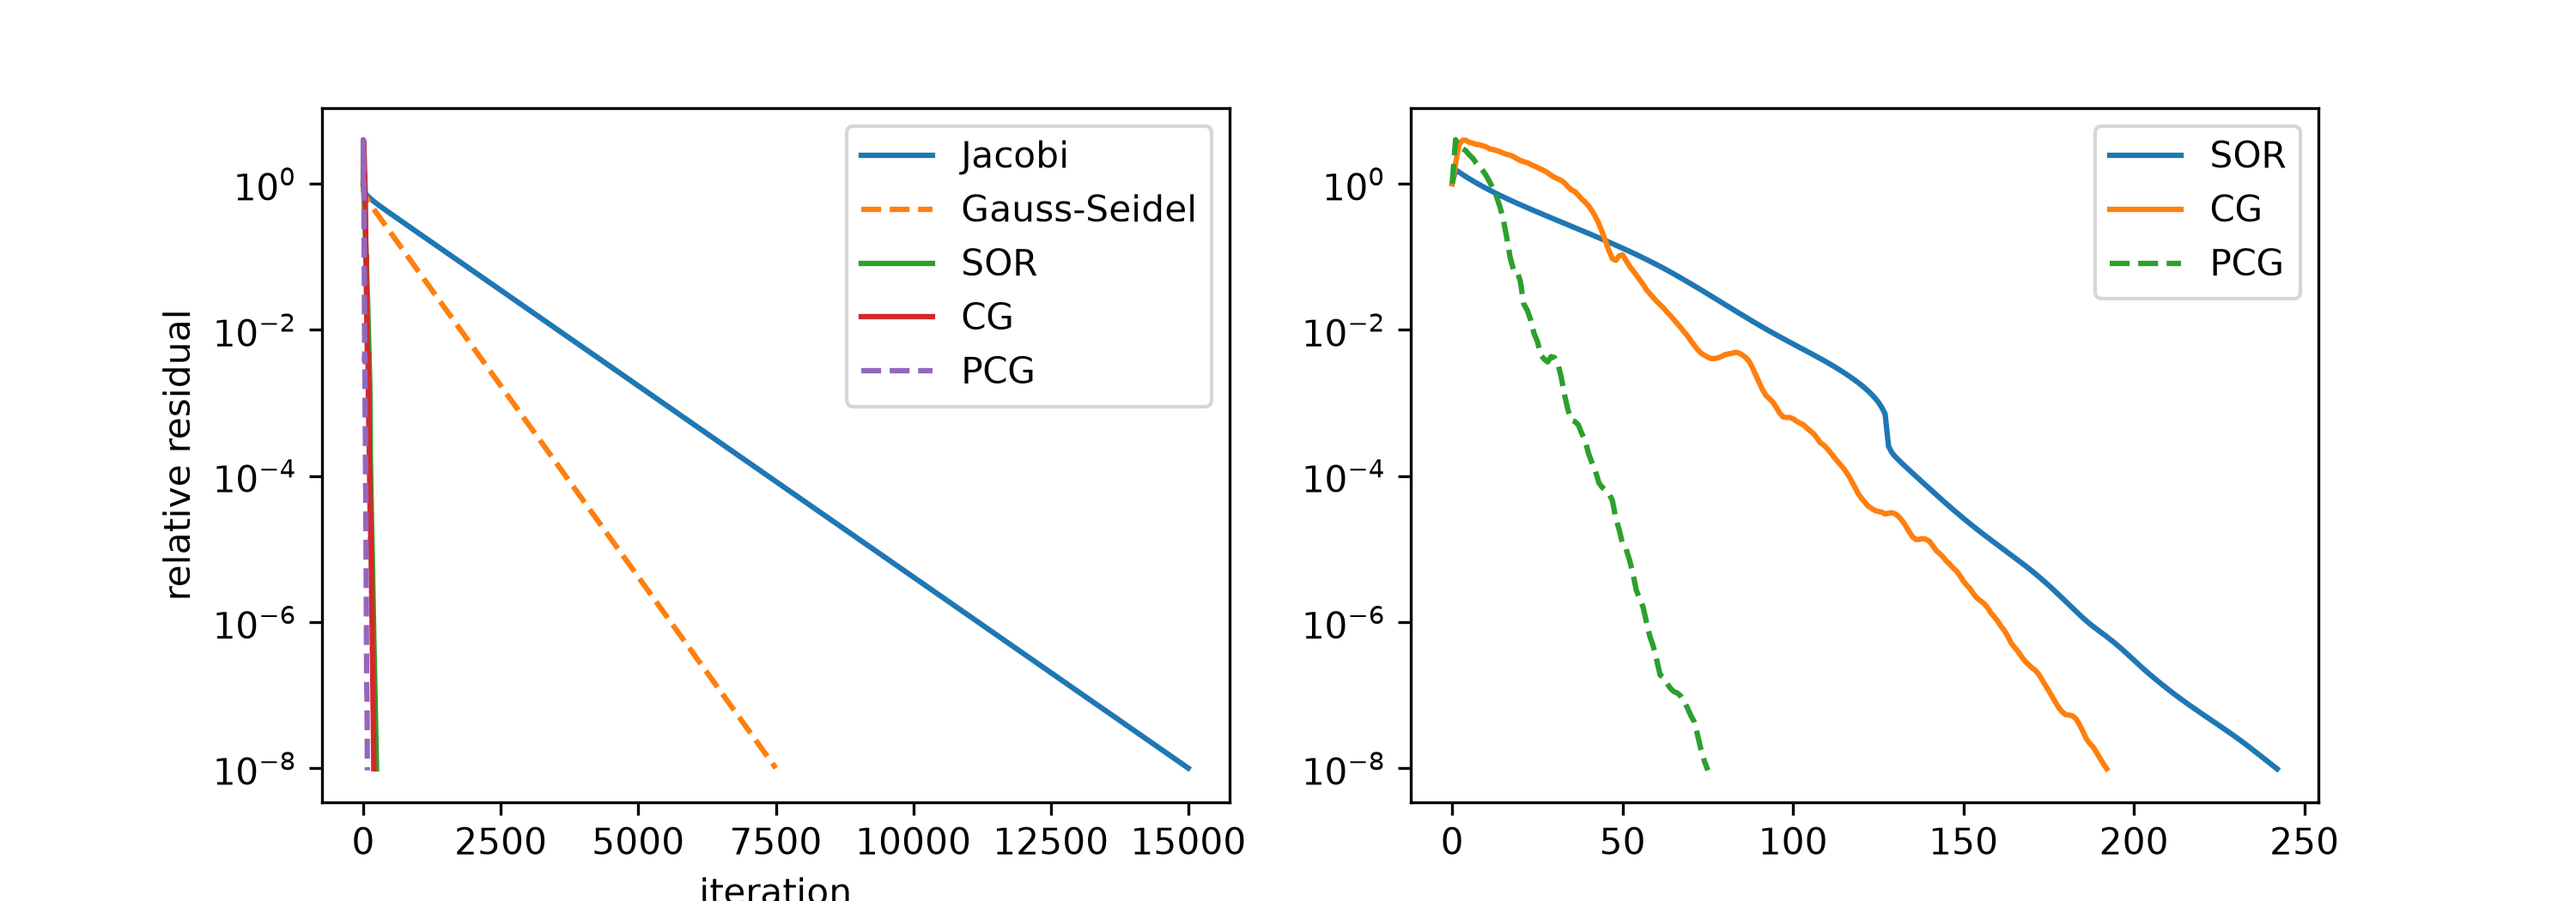
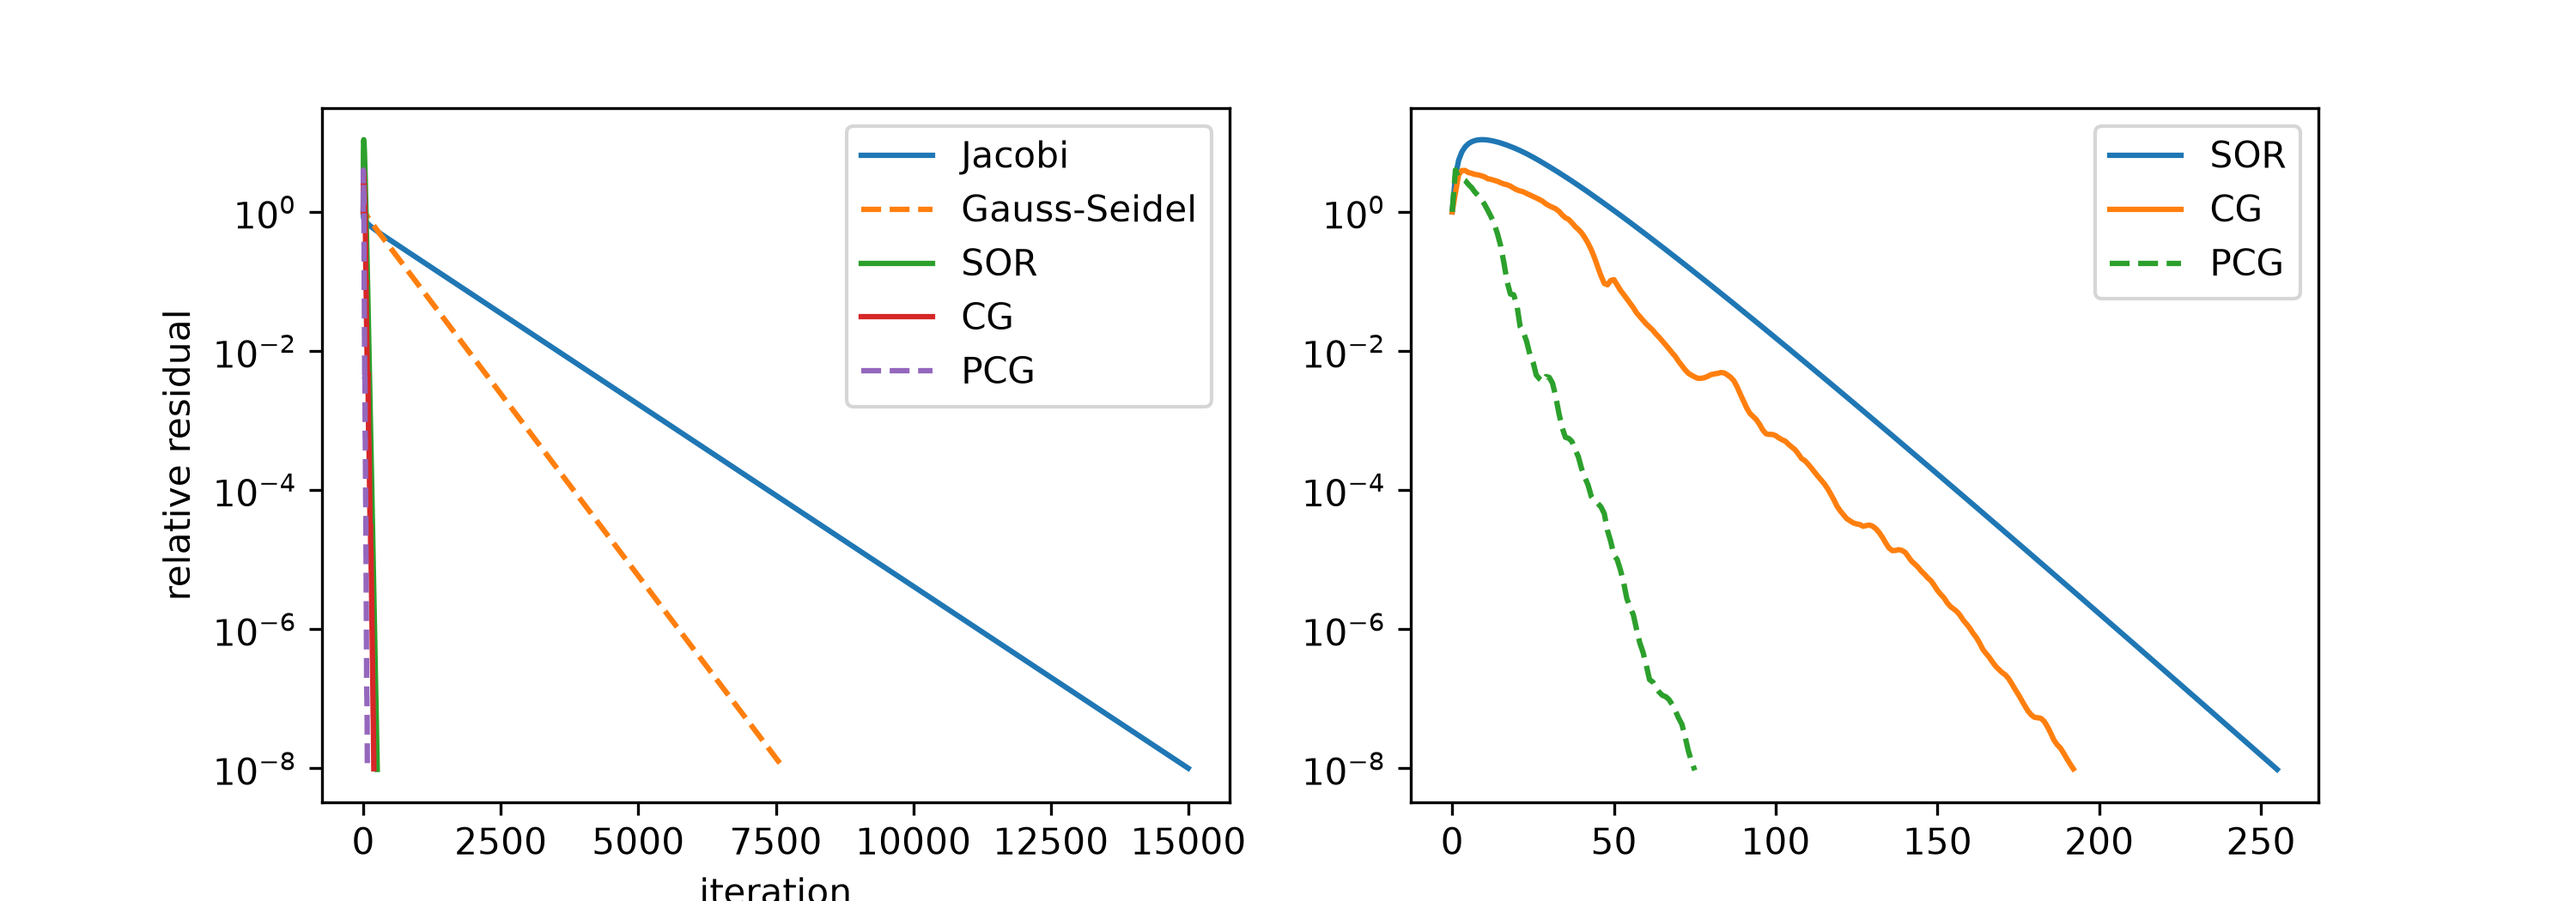
gs, sor: red-black ordering

diff --git a/methods.py b/methods.py
@@ -99,7 +99,7 @@ def jacobi(b, n, tol=1e-8, maxit=10**6):
         reshaped_u = u.reshape(n-1, n-1)
         padded_u = np.pad(reshaped_u, 1)
         return (
-            padded_u[1:-1, :-2]   #left
+            padded_u[1:-1, :-2]     #left
             + padded_u[1:-1, 2:]    #right
             + padded_u[:-2, 1:-1]   #up
             + padded_u[2:, 1:-1]    #down
@@ -124,7 +124,7 @@ def jacobi(b, n, tol=1e-8, maxit=10**6):
     return u, False, history
 
 
-def sor(b, n, w=None, tol=1e-8, maxit=10**6):
+def sor_lex(b, n, w=None, tol=1e-8, maxit=10**6):
     _check_n_size(n)
     if w is None:
         w = 2.0 / (1.0 + np.sin(np.pi/n))
@@ -155,7 +155,62 @@ def sor(b, n, w=None, tol=1e-8, maxit=10**6):
     return u[1:-1, 1:-1].reshape(-1), False, history
 
 def gs_lex(b, n, tol=1e-8, maxit=10**6):
-    return sor(b, n, w=1.0)
+    return sor_lex(b, n, w=1.0, tol=tol, maxit=maxit)
+
+def sor_rb(b, n, w=None, tol=1e-8, maxit=10**6):
+    _check_n_size(n)
+    if w is None:
+        w = 2.0 / (1.0 + np.sin(np.pi/n))
+
+    b_norm = np.linalg.norm(b)
+    if b_norm == 0:
+        return np.zeros_like(b), True, [0.0]
+    history = [1.0]
+    b = b.reshape(n-1,n-1)
+    u = np.zeros_like(b).reshape(n-1,n-1)
+    u = np.pad(u, 1)
+
+    for i in range(maxit):
+        # update red
+        u[1:-1:2, 1:-1:2] = (1-w)*u[1:-1:2, 1:-1:2] + w*0.25*(
+            b[::2, ::2]             # b is not padded
+            + u[:-2:2, 1:-1:2]      # up
+            + u[2::2, 1:-1:2]       # down
+            + u[1:-1:2, :-2:2]      # left
+            + u[1:-1:2, 2::2]       # right
+        )
+        u[2:-1:2, 2:-1:2] = (1-w)*u[2:-1:2, 2:-1:2] + w*0.25*(
+            b[1::2, 1::2]       # b is not padded
+            + u[1:-2:2, 2:-1:2]     # up
+            + u[3::2, 2:-1:2]     # down
+            + u[2:-1:2, 1:-2:2]     # left
+            + u[2:-1:2, 3::2]     # right
+        )
+        # update black
+        u[1:-1:2, 2:-1:2] = (1-w)*u[1:-1:2, 2:-1:2] + w*0.25*(
+            b[::2, 1::2]          # b is not padded
+            + u[:-2:2, 2:-1:2]      # up
+            + u[2::2, 2:-1:2]       # down
+            + u[1:-1:2, 1:-2:2]     # left
+            + u[1:-1:2, 3::2]     # right
+        )
+        u[2:-1:2, 1:-1:2] = (1-w)*u[2:-1:2, 1:-1:2] + w*0.25*(
+            b[1::2, ::2]          # b is not padded
+            + u[1:-2:2, 1:-1:2]     # up
+            + u[3::2, 1:-1:2]     # down
+            + u[2:-1:2, :-2:2]      # left
+            + u[2:-1:2, 2::2]       # right
+        )
+
+        residual = np.linalg.norm(apply_A(u[1:-1, 1:-1].reshape(-1), n) - b.reshape(-1)) / b_norm
+        history.append(residual)
+        if residual < tol:
+            return u[1:-1, 1:-1].reshape(-1), True, history
+
+    return u[1:-1, 1:-1].reshape(-1), False, history
+
+def gs_rb(b, n, tol=1e-8, maxit=10**6):
+    return sor_rb(b, n, w=1.0, tol=tol, maxit=maxit)
 
 def cg(b, n, tol=1e-8, maxit=10**6):
     _check_n_size(n)

diff --git a/C9_1.py b/C9_1.py
@@ -4,7 +4,7 @@ import matplotlib.pyplot as plt
 
 rng = np.random.default_rng(seed=0)
 
-n_list = [8, 16, 32, 64, 128]
+n_list = [8, 16, 32, 64, 128, 256]
 jacobi_it = []
 gs_it = []
 sor_it = []
@@ -20,15 +20,18 @@ for n in n_list:
     print(f"n={n:<3d} ", end="", flush=True)
     u, converged, history_jacobi = methods.jacobi(b, n)     ; jacobi_it.append(len(history_jacobi) - 1)
     print(f"{jacobi_it[-1]:>10d} ", end="", flush=True)
-    u, converged, history_gs = methods.gs_lex(b,n)          ; gs_it.append(len(history_gs) - 1)
+    u, converged, history_gs = methods.gs_rb(b,n)          ; gs_it.append(len(history_gs) - 1)
     print(f"{gs_it[-1]:>10d} ", end="", flush=True)
-    u, converged, history_sor = methods.sor(b,n)            ; sor_it.append(len(history_sor) - 1)
+    u, converged, history_sor = methods.sor_rb(b,n)            ; sor_it.append(len(history_sor) - 1)
     print(f"{sor_it[-1]:>10d} ", end="", flush=True)
     u, converged, history_cg = methods.cg(b,n)              ; cg_it.append(len(history_cg) - 1)
     print(f"{cg_it[-1]:>10d} ", end="", flush=True)
     u, converged, history_pcg = methods.pcg_ssor(b,n)       ; pcg_it.append(len(history_pcg) - 1)
     print(f"{pcg_it[-1]:>10d} ", flush=True)
 
+
+
+# print graph
 iterations ={
     "Jacobi": jacobi_it,
     "Gauss-Seidel": gs_it,

diff --git a/problems.py b/problems.py
@@ -42,8 +42,8 @@ for i in range(3):
     answer = np.linalg.solve(methods.make_A(n), b)
     answer_norm = np.linalg.norm(answer)
     u, converged_jacobi, history_jacobi  = methods.jacobi(b, n);    diff_jacobi = np.linalg.norm(answer - u) / answer_norm
-    u, converged_gs, history_gs = methods.gs_lex(b, n);             diff_gs = np.linalg.norm(answer - u) / answer_norm
-    u, converged_sor, history_sor= methods.sor(b, n);               diff_sor = np.linalg.norm(answer - u) / answer_norm
+    u, converged_gs, history_gs = methods.gs_rb(b, n);             diff_gs = np.linalg.norm(answer - u) / answer_norm
+    u, converged_sor, history_sor= methods.sor_rb(b, n);               diff_sor = np.linalg.norm(answer - u) / answer_norm
     u, converged_cg, history_cg = methods.cg(b, n);                 diff_cg = np.linalg.norm(answer - u) / answer_norm
     print(f"{i+1:>5d}", end="")
     print(f" {n:>3d} {'jacobi':>8} {history_jacobi[-1]:>12.4e} {diff_jacobi:>15.4e} {len(history_jacobi)-1:>10d} {str(converged_jacobi):>12}")

diff --git a/C10_residual-histories.py b/C10_residual-histories.py
@@ -8,8 +8,8 @@ m = (n-1)**2
 b = rng.uniform(low=0, high=50, size=m)
 
 u, converged_jacobi, history_jacobi  = methods.jacobi(b, n)
-u, converged_gs, history_gs = methods.gs_lex(b, n)
-u, converged_sor, history_sor= methods.sor(b, n)
+u, converged_gs, history_gs = methods.gs_rb(b, n)
+u, converged_sor, history_sor= methods.sor_rb(b, n)
 u, converged_cg, history_cg = methods.cg(b, n)
 u, converged_pcg, history_pcg = methods.pcg_ssor(b, n)
 

diff --git a/C9_2.py b/C9_2.py
@@ -1,0 +1,18 @@
+import methods
+import numpy as np
+import matplotlib.pyplot as plt
+
+rng = np.random.default_rng(seed=0)
+n = 32
+m = (n-1)**2
+b = rng.uniform(low=0, high=50, size=m)
+w_step = 1 / 32
+w = 1.0
+iterations = []
+
+while w < 2.0:
+    u, converged, history = methods.sor(b, n, w=w)
+    iterations.append(len(history) - 1)
+
+    w_new = w + w_step
+    if 
